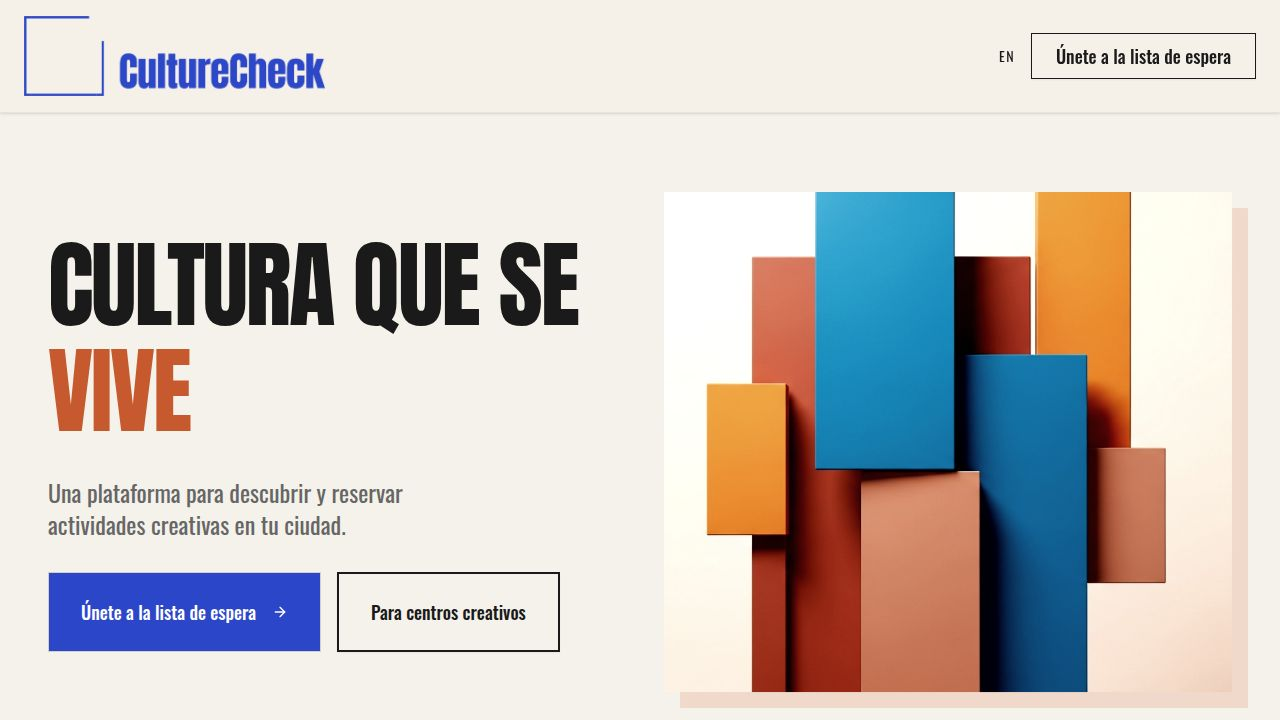
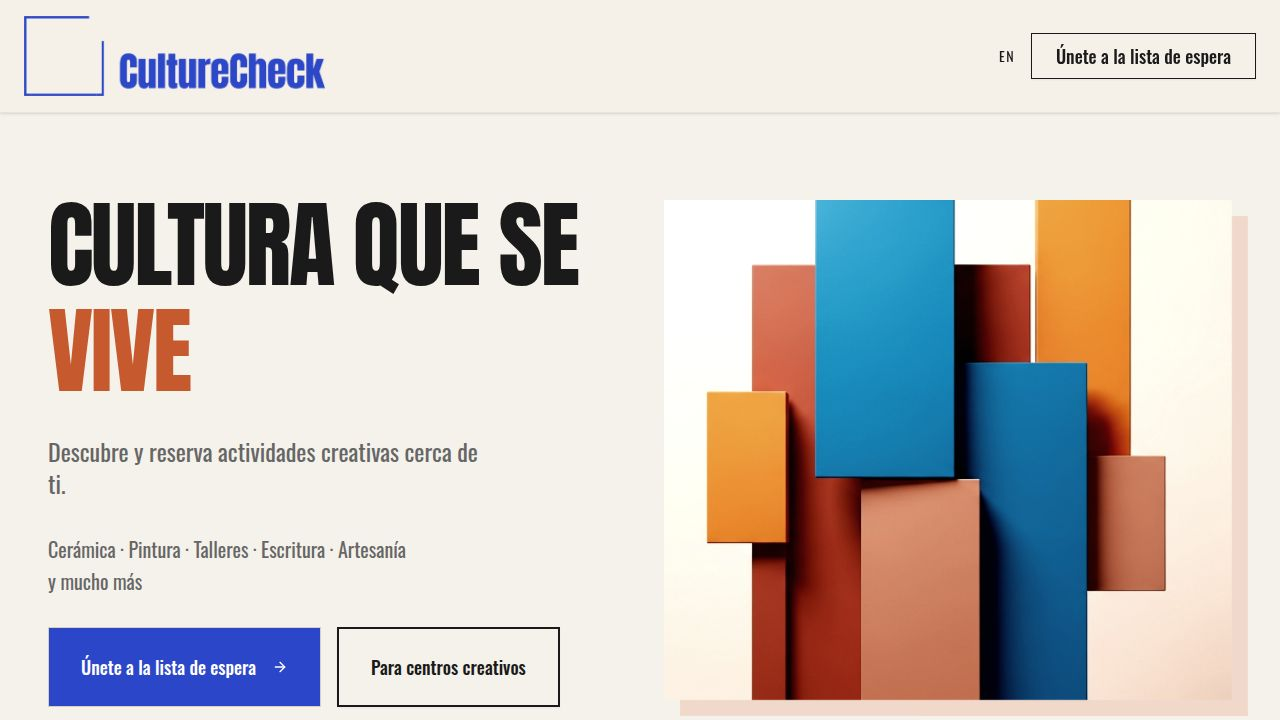
Update hero section text and links for creative activities
Updates the hero section's subheadline and CTA text in both English and Spanish.

Replit-Commit-Author: Agent
Replit-Commit-Session-Id: bd1b7c08-484c-4837-9868-8ca99b3dfac3
Replit-Commit-Checkpoint-Type: full_checkpoint
Replit-Commit-Event-Id: 6538a178-4d96-4be5-82bc-b32958f0bed5
Replit-Commit-Screenshot-Url: https://storage.googleapis.com/screenshot-production-us-central1/9532ab90-1a89-4eb9-afa0-3acbb4650984/bd1b7c08-484c-4837-9868-8ca99b3dfac3/jExOWNx
Replit-Helium-Checkpoint-Created: true

diff --git a/client/src/pages/Home.tsx b/client/src/pages/Home.tsx
@@ -53,7 +53,7 @@ export default function Home() {
       },
       hero: {
         headline: <>Culture that is <span className="text-secondary">lived</span></>,
-        subheadline: "A platform to discover and book creative activities in your city.",
+        subheadline: <>Discover and book creative activities near you.<br/><br/><span className="text-muted-foreground text-lg md:text-xl">Ceramics · Painting · Workshops · Writing · Crafts<br/>and much more</span></>,
         primaryCta: "Join the waitlist",
         secondaryCta: "For creative centers"
       },
@@ -103,7 +103,7 @@ export default function Home() {
       },
       hero: {
         headline: <>Cultura que se <span className="text-[#c65a2e]">vive</span></>,
-        subheadline: "Una plataforma para descubrir y reservar actividades creativas en tu ciudad.",
+        subheadline: <>Descubre y reserva actividades creativas cerca de ti.<br/><br/><span className="text-muted-foreground text-lg md:text-xl">Cerámica · Pintura · Talleres · Escritura · Artesanía<br/>y mucho más</span></>,
         primaryCta: "Únete a la lista de espera",
         secondaryCta: "Para centros creativos"
       },
